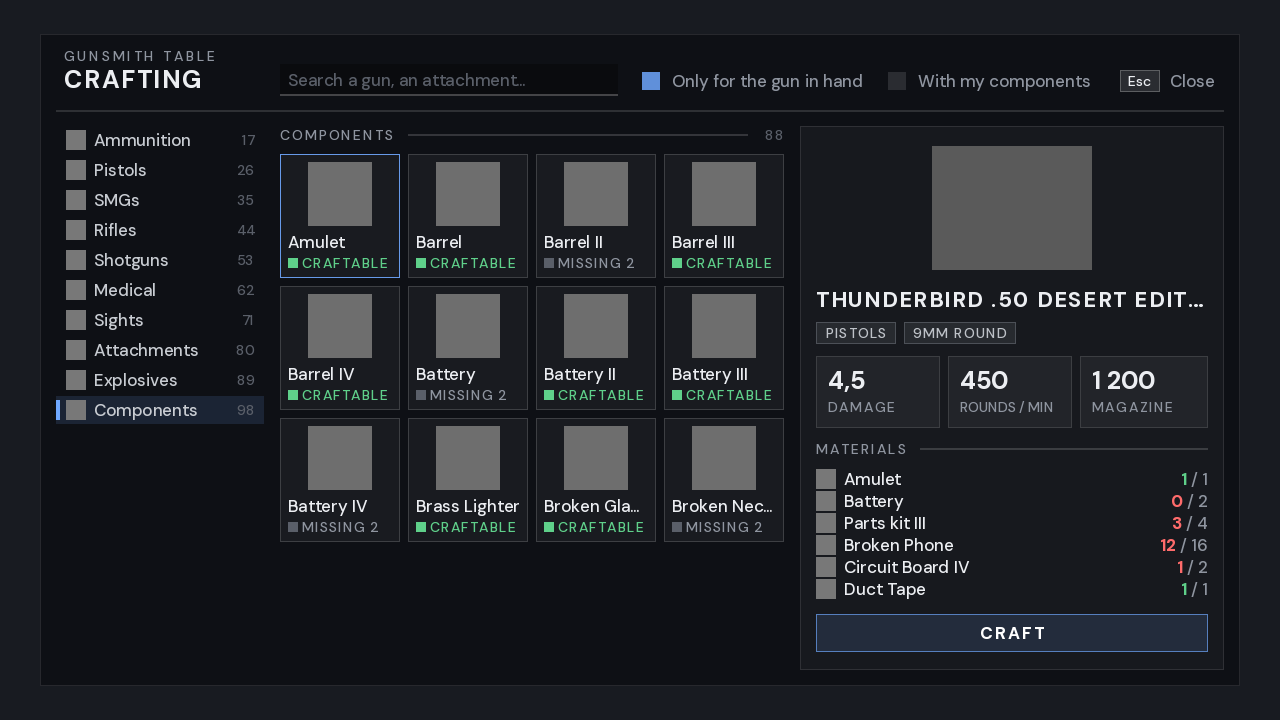
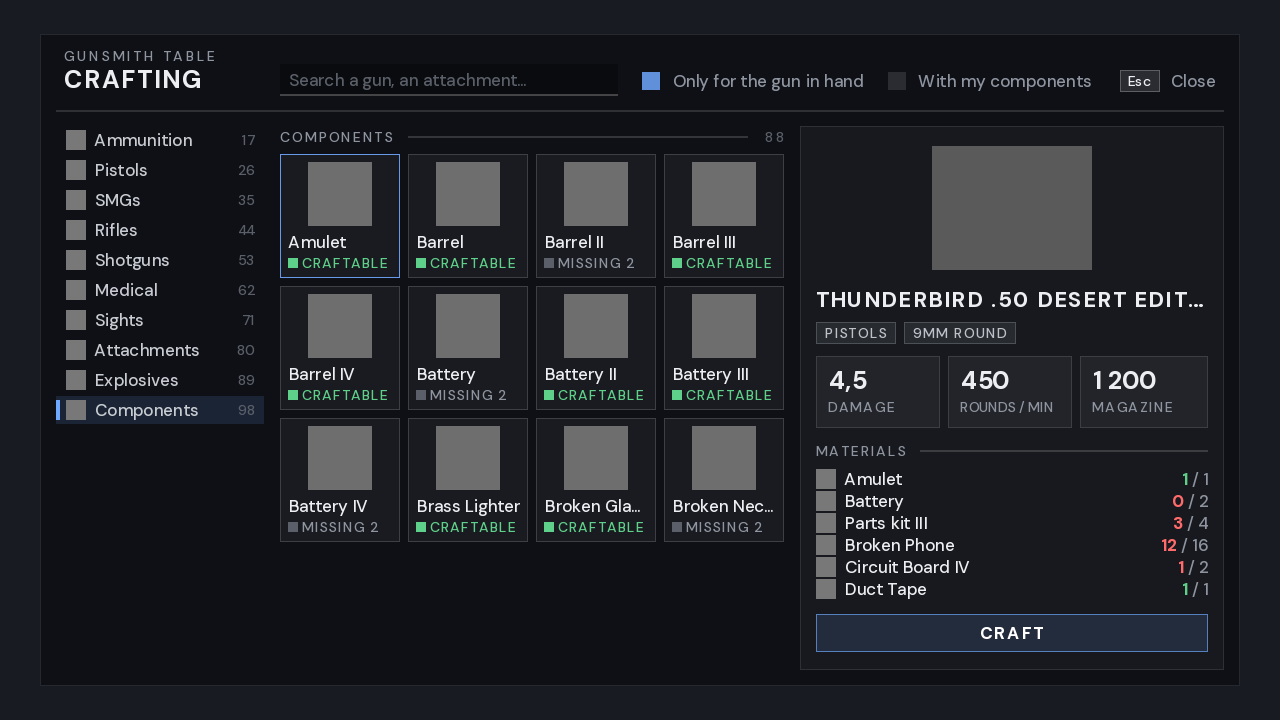
Tactique 2.35.1 : centrage refait avec le vrai modèle de Minecraft (décalage vertical et approche gauche des lettres TTF comptés deux fois), capitales espacées régulières (approche retirée une fois par lettre) ; aperçu et table encre.json mis à jour
Claude-Session: https://claude.ai/code/session_017zTciF6jhowAQMTd62LAuP

diff --git a/mods/heraliz-tactique/outils/apercu_table_armurier.py b/mods/heraliz-tactique/outils/apercu_table_armurier.py
@@ -8,8 +8,9 @@ Refait la mise en page de `camo/client/atelier/TableArmurier.java` avec les MÊM
 Java) et les mêmes polices (TTF du mod, tailles et décalages des fichiers `font/*.json`), comme Minecraft 1.20.1 :
 - avancée d'une lettre = avance TTF × taille / (ascendante − descendante) ; Font.width = somme arrondie au-dessus ;
   capitales espacées : avancées exactes (StringSplitter) ; espace = 3 ;
-- ligne de base d'une lettre TTF = point de dessin + ascendante + décalage du JSON − 3 (TrueTypeGlyphProvider :
-  bearingY = ascendante − haut + shift ; BakedGlyph : up − 3) ; le milieu des capitales qui en découle doit être celui
+- ligne de base d'une lettre TTF = point de dessin + ascendante + 2 × décalage du JSON − 3 (TrueTypeGlyphProvider : le
+  décalage compte dans la boîte stb et dans bearingY = ascendante − haut + shift ; BakedGlyph : up − 3) ; l'approche
+  gauche d'une lettre compte aussi deux fois (bearingX) ; le milieu des capitales qui en découle doit être celui
   de `Ui.milieu` (vérifié ici) ;
 - point de dessin posé sur le point d'écran le plus proche (`Ui.placer`).
 
@@ -113,8 +114,8 @@ class Police:
 
     @staticmethod
     def base(f):
-        """Ligne de base sous le point de dessin (Minecraft : ascendante + décalage − 3)."""
-        return f["asc"] * f["taille"] / f["hh"] + f["decal"][1] - 3
+        """Ligne de base sous le point de dessin (Minecraft : ascendante + 2 × décalage − 3)."""
+        return f["asc"] * f["taille"] / f["hh"] + 2 * f["decal"][1] - 3  # le décalage Y compte deux fois (boîte stb + bearingY)
 
     def capitales(self):
         f = self.ttf[0]
@@ -227,10 +228,13 @@ class Ecran:
         cx = x
         for c in s:
             f = pol.source(c)
-            px = self.placer(cx) if esp is not None else cx
+            # capitales espacées : Ui.spaced recule chaque lettre de son approche gauche, puis la pose au point d'écran
+            px = self.placer(cx - approche(c, pol)) if esp is not None else cx
             if f is not None and c not in pol.espaces:
                 base = y + Police.base(f)
-                pos = ((px * sc - origine[0]) * facteur, (base * sc - origine[1]) * facteur)
+                # Minecraft compte deux fois l'approche gauche (bearingX) ; Pillow une fois : on ajoute l'autre
+                lsb = f["hmtx"][f["cmap"][ord(c)]][1] * f["taille"] / f["hh"]
+                pos = (((px + lsb) * sc - origine[0]) * facteur, (base * sc - origine[1]) * facteur)
                 d.text(pos, c, font=pol.image(f, sc * facteur), fill=rgba if cible is None else 255, anchor="ls")
             cx += pol.avance(c) + (esp if esp is not None else 0.0)
         return cx - x
@@ -335,8 +339,9 @@ def x_caps_centre(e, t, pol, esp, cx):
     if n == 0:
         return cx, esp
     w = caps_largeur(t, pol, esp)
-    gl, dr = encre_px(t, pol)
+    gl, dr = encre_px(t, pol, True)
     av = pol.avance(t[-1])
+    lf, ll = approche(t[0], pol), approche(t[-1], pol)
     meilleur, ecart = (cx - (w + gl - dr) / 2, esp), float("inf")
     for j in RETOUCHES:
         wj = w + (n - 1) * j * 0.01
@@ -344,7 +349,7 @@ def x_caps_centre(e, t, pol, esp, cx):
         x0 = cx - (wj + gl - dr) / 2
         for i in DECALAGES:
             xc = x0 + i / (8 * e.s)
-            milieu = (e.placer(xc) + gl + e.placer(xc + dern) + av - dr) / 2
+            milieu = (e.placer(xc - lf) + lf + gl + e.placer(xc + dern - ll) + ll + av - dr) / 2
             d = abs(milieu - cx)
             if d < ecart - 1e-4:
                 ecart, meilleur = d, (xc, esp + j * 0.01)
@@ -602,19 +607,30 @@ def table_encre():
                 if not hasattr(g, "xMin") or g.numberOfContours == 0:
                     continue
                 av = hmtx[nom][0]
-                table[ch] = [round(g.xMin / f["hh"], 5), round((av - g.xMax) / f["hh"], 5)]
+                lsb = hmtx[nom][1]  # Minecraft ajoute l'approche gauche une 2e fois : encre décalée d'autant
+                table[ch] = [round((g.xMin + lsb) / f["hh"], 5), round((av - g.xMax - lsb) / f["hh"], 5), round(lsb / f["hh"], 5)]
         out[graisse] = dict(sorted(table.items()))
     return out
 
 
-def encre_px(s, pol):
-    """(gauche, droite) de l'encre du texte, en points d'interface (comme Encre.java)."""
+def approche(c, pol):
+    """Encre.approche : approche gauche (une fois) d'une lettre, en points d'interface."""
+    t = TABLE_ENCRE["bold" if pol.nom in ("ui_bold", "ui_gros", "ui_nom") else "medium"]
+    return t.get(c, [0, 0, 0])[2] * pol.ttf[0]["taille"]
+
+
+def encre_px(s, pol, capitales=False):
+    """(gauche, droite) de l'encre du texte, en points d'interface (comme Encre.de / Encre.deCapitales) : texte entier,
+    approche gauche comptée deux fois ; capitales espacées (Ui.spaced retire la 2e fois lettre par lettre)."""
     t = TABLE_ENCRE["bold" if pol.nom in ("ui_bold", "ui_gros", "ui_nom") else "medium"]
     s = s.strip()
     if not s:
         return 0.0, 0.0
     taille = pol.ttf[0]["taille"]
-    return t.get(s[0], [0, 0])[0] * taille, t.get(s[-1], [0, 0])[1] * taille
+    a, b = t.get(s[0], [0, 0, 0]), t.get(s[-1], [0, 0, 0])
+    if capitales:
+        return (a[0] - a[2]) * taille, (b[1] + b[2]) * taille
+    return a[0] * taille, b[1] * taille
 
 
 TABLE_ENCRE = table_encre()

diff --git a/mods/heraliz-tactique/src/client/java/fr/heralisz/camo/client/kit/Ui.java b/mods/heraliz-tactique/src/client/java/fr/heralisz/camo/client/kit/Ui.java
@@ -194,7 +194,8 @@ public final class Ui {
             String ch = new String(Character.toChars(up.codePointAt(i)));
             MutableComponent c = lit(ch, f);
             g.pose().pushPose();
-            placer(g, cx, y);
+            // Minecraft compte deux fois l'approche gauche d'une lettre TTF : on la retire une fois (espacement régulier)
+            placer(g, cx - Encre.approche(up.codePointAt(i), f), y);
             g.drawString(font, c, 0, 0, argb, false);
             g.pose().popPose();
             cx += font.getSplitter().stringWidth(c) + spacing;
@@ -233,18 +234,19 @@ public final class Ui {
 
     /**
      * Milieu des capitales sous le point de dessin, en points d'interface. Minecraft 1.20.1 pose une lettre TTF à
-     * y + ascendante + décalage du JSON − 3 (TrueTypeGlyphProvider : bearingY = ascendante − haut + shift ; BakedGlyph :
-     * up − 3) ; DM Sans : ascendante 992 et capitales 700 sur 1302 unités de hauteur, décalage 1, d'où
-     * taille × 0,49309 − 2. Vérifié par outils/apercu_table_armurier.py (mêmes polices, même calcul).
+     * y + ascendante + 2 × décalage du JSON − 3 (TrueTypeGlyphProvider : le décalage Y compte deux fois, dans la boîte
+     * du glyphe de stb et dans bearingY = ascendante − haut + shift ; BakedGlyph : up − 3) ; DM Sans : ascendante 992 et
+     * capitales 700 sur 1302 unités de hauteur, décalage 1, d'où taille × 0,49309 − 1. Vérifié par
+     * outils/apercu_table_armurier.py (mêmes polices, même calcul).
      */
     public static float milieu(ResourceLocation f) {
         if (!"heralisz_camo".equals(f.getNamespace())) return 3.5f;
         return switch (f.getPath()) {
-            case "ui", "ui_bold" -> 3.424f;
-            case "ui_small" -> 2.438f;
-            case "ui_gros" -> 5.889f;
-            case "ui_nom" -> 4.903f;
-            case "ui_mini" -> 1.945f;
+            case "ui", "ui_bold" -> 4.424f;
+            case "ui_small" -> 3.438f;
+            case "ui_gros" -> 6.889f;
+            case "ui_nom" -> 5.903f;
+            case "ui_mini" -> 2.945f;
             default -> 3.5f;
         };
     }
@@ -303,9 +305,10 @@ public final class Ui {
         int n = up.codePointCount(0, up.length());
         if (n == 0) return;
         float w = spacedWidth(font, up, f, spacing);
-        float[] e = Encre.de(up, f);
+        float[] e = Encre.deCapitales(up, f);
         float av = font.getSplitter().stringWidth(lit(new String(Character.toChars(up.codePointBefore(up.length()))), f));
         double ech = Minecraft.getInstance().getWindow().getGuiScale();
+        float lf = Encre.approche(up.codePointAt(0), f), ll = Encre.approche(up.codePointBefore(up.length()), f);
         float meilleurX = cx - (w + e[0] - e[1]) / 2f, meilleurEsp = spacing, ecart = Float.MAX_VALUE;
         for (int j : RETOUCHES) {
             float esp = spacing + j * 0.01f;
@@ -313,7 +316,7 @@ public final class Ui {
             float x0 = cx - (wj + e[0] - e[1]) / 2f;
             for (int i : DECALAGES) {
                 float xc = (float) (x0 + i / (8 * ech));
-                float milieu = (point(xc, ech) + e[0] + point(xc + dern, ech) + av - e[1]) / 2f;
+                float milieu = (point(xc - lf, ech) + lf + e[0] + point(xc + dern - ll, ech) + ll + av - e[1]) / 2f;
                 float d = Math.abs(milieu - cx);
                 if (d < ecart - 1e-4f) {
                     ecart = d;

diff --git a/mods/heraliz-tactique/src/client/java/fr/heralisz/camo/client/kit/Encre.java b/mods/heraliz-tactique/src/client/java/fr/heralisz/camo/client/kit/Encre.java
@@ -46,7 +46,7 @@ public final class Encre {
         if (o == null) return;
         for (Map.Entry<String, JsonElement> e : o.entrySet()) {
             var a = e.getValue().getAsJsonArray();
-            m.put(e.getKey().codePointAt(0), new float[]{a.get(0).getAsFloat(), a.get(1).getAsFloat()});
+            m.put(e.getKey().codePointAt(0), new float[]{a.get(0).getAsFloat(), a.get(1).getAsFloat(), a.size() > 2 ? a.get(2).getAsFloat() : 0f});
         }
     }
 
@@ -68,14 +68,37 @@ public final class Encre {
         return p.equals("ui_bold") || p.equals("ui_gros") || p.equals("ui_nom");
     }
 
-    /** {retrait gauche de la 1re lettre, retrait droit de la dernière}, en points d'interface. */
+    /**
+     * {retrait gauche de la 1re lettre, retrait droit de la dernière}, en points d'interface, pour un texte dessiné d'un
+     * bloc : Minecraft compte deux fois l'approche gauche de chaque lettre (bearingX), la table en tient compte.
+     */
     public static float[] de(String s, ResourceLocation f) {
+        return retraits(s, f, false);
+    }
+
+    /** Idem pour des capitales espacées ({@link Ui#spaced}, qui retire la 2e approche lettre par lettre). */
+    public static float[] deCapitales(String s, ResourceLocation f) {
+        return retraits(s, f, true);
+    }
+
+    /** Approche gauche (une fois) d'une lettre, en points d'interface : Ui.spaced recule la lettre d'autant. */
+    public static float approche(int cp, ResourceLocation f) {
+        float t = taille(f);
+        if (t == 0f) return 0f;
+        charger();
+        float[] a = (grasse(f) ? gras : moyen).get(cp);
+        return a == null ? 0f : a[2] * t;
+    }
+
+    private static float[] retraits(String s, ResourceLocation f, boolean capitales) {
         float t = taille(f);
         String u = s.strip();
         if (t == 0f || u.isEmpty()) return new float[]{0f, 0f};
         charger();
         Map<Integer, float[]> m = grasse(f) ? gras : moyen;
         float[] a = m.get(u.codePointAt(0)), b = m.get(u.codePointBefore(u.length()));
-        return new float[]{a == null ? 0f : a[0] * t, b == null ? 0f : b[1] * t};
+        float g = a == null ? 0f : (capitales ? a[0] - a[2] : a[0]) * t;
+        float d = b == null ? 0f : (capitales ? b[1] + b[2] : b[1]) * t;
+        return new float[]{g, d};
     }
 }

diff --git a/CLAUDE.md b/CLAUDE.md
@@ -2112,8 +2112,9 @@ Knight, Kraken et Vulkhar mis de côté. Le propriétaire trouve que les boss ra
   Aperçu et contrôle hors du jeu : `python mods/heraliz-tactique/outils/apercu_table_armurier.py` (mêmes constantes,
   lues dans le Java ; liste des débordements, doit être vide ; images dans `maquettes/table_armurier/`). Tactique
   2.35.1 (rien testé en jeu, demande du propriétaire) : textes centrés dans leur case, en hauteur sur le milieu des
-  capitales (`Ui.milieu` : Minecraft pose une lettre TTF à ascendante + décalage du JSON − 3) et en largeur sur l'ENCRE
-  (approches des lettres, `kit/Encre` + `assets/heralisz_camo/ui/encre.json` écrit par le script avec `--encre`) :
+  capitales (`Ui.milieu` : Minecraft pose une lettre TTF à ascendante + 2 × décalage du JSON − 3) et en largeur sur l'ENCRE
+  (approches des lettres, l'approche gauche comptée deux fois par Minecraft et retirée une fois lettre par lettre dans
+  les capitales espacées pour un espacement régulier, `kit/Encre` + `assets/heralisz_camo/ui/encre.json` écrit par le script avec `--encre`) :
   pastilles, boutons, champ de saisie, touche « Échap », filtres, catégories, tuiles, matériaux ; kit commun de l'Atelier
   (onglets Accessoires, Camo, Personnaliser, Registre de l'armurier : ils en profitent). Le script contrôle aussi
   l'encre réelle de chaque texte centré (écart haut / bas et gauche / droite d'au plus 1 point d'écran, échelles 2 et 3).
